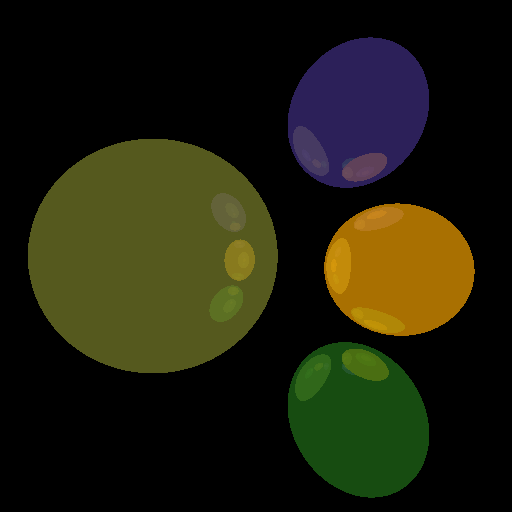
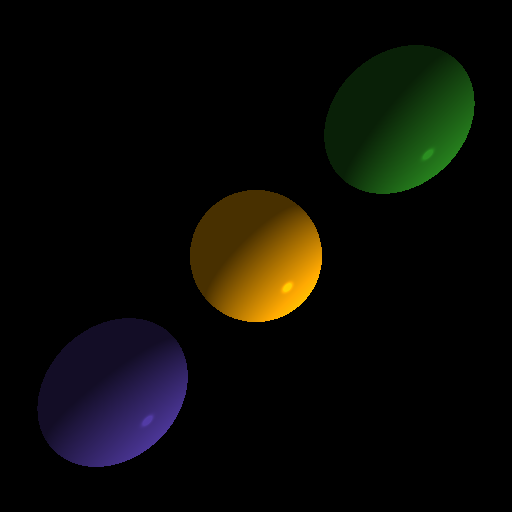
lights

diff --git a/src/rt/theater/lights/parallel_light.cc b/src/rt/theater/lights/parallel_light.cc
@@ -1,5 +1,9 @@
 #include "parallel_light.hh"
 
+#include <cmath>
+
+#include <rt/common/exception.hh>
+
 namespace rt {
 
 const Vector3<>& ParallelLight::color() const noexcept {
@@ -16,8 +20,20 @@ ParallelLight& ParallelLight::SetColor(const Vector3<>& value) noexcept {
 }
 
 ParallelLight& ParallelLight::SetDirection(const Vector3<>& value) noexcept {
-  direction_ = value;
+  direction_ = value.Unit();
   return *this;
+}
+
+Vector3<> ParallelLight::Illuminate(const Ray& ray,
+                                    const Intersection& intersection) const {
+  auto& phong = intersection.material->phong();
+  auto L = -direction_;
+  auto V = -ray.direction;
+  auto LN = L.Dot(intersection.normal);
+  auto R = 2 * LN * intersection.normal - L;
+  auto d = std::clamp(phong.kd * LN, 0.0, 1.0);
+  auto s = phong.ks * std::pow(std::clamp(R.Dot(V), 0.0, 1.0), phong.exp);
+  return ((d + s) * color_).Clamp(0.0, 1.0);
 }
 
 std::string ParallelLight::ToString() const {

diff --git a/src/rt/theater/lights/point_light.cc b/src/rt/theater/lights/point_light.cc
@@ -1,5 +1,7 @@
 #include "point_light.hh"
 
+#include <rt/common/exception.hh>
+
 namespace rt {
 
 const Vector3<>& PointLight::color() const noexcept {
@@ -18,6 +20,11 @@ PointLight& PointLight::SetColor(const Vector3<>& value) noexcept {
 PointLight& PointLight::SetPosition(const Vector3<>& value) noexcept {
   position_ = value;
   return *this;
+}
+
+Vector3<> PointLight::Illuminate(const Ray& ray,
+                                 const Intersection& intersection) const {
+  throw RuntimeError{"not implemented"};
 }
 
 std::string PointLight::ToString() const {

diff --git a/src/rt/renderer/renderer.cc b/src/rt/renderer/renderer.cc
@@ -46,10 +46,11 @@ Vector3<> Renderer::ProcessRay(const Ray& ray, std::size_t bounces) {
   if (!surface) {
     return scene_->background();
   }
-  auto ref = ray.direction - 2 * ray.direction.Dot(inter.normal) * inter.normal;
-  auto c0 = ProcessRay({inter.point, ref}, bounces - 1);
-  auto c1 = surface->material()->GetColor();
-  return 0.3 * c0 + 0.7 * c1;
+  Vector3<> color{};
+  for (auto& light : scene_->lights()) {
+    color += light->Illuminate(ray, inter);
+  }
+  return color.Hadamard(surface->material()->GetColor());
 }
 
 }  // namespace rt

diff --git a/src/rt/theater/lights/spot_light.cc b/src/rt/theater/lights/spot_light.cc
@@ -1,5 +1,7 @@
 #include "spot_light.hh"
 
+#include <rt/common/exception.hh>
+
 namespace rt {
 
 const Vector3<>& SpotLight::color() const noexcept {
@@ -41,6 +43,11 @@ SpotLight& SpotLight::SetFallof(const Angle<>& a1, const Angle<>& a2) noexcept {
   falloff_a1_ = a1;
   falloff_a2_ = a2;
   return *this;
+}
+
+Vector3<> SpotLight::Illuminate(const Ray& ray,
+                                const Intersection& intersection) const {
+  throw RuntimeError{"not implemented"};
 }
 
 std::string SpotLight::ToString() const {

diff --git a/src/rt/theater/lights/ambient_light.cc b/src/rt/theater/lights/ambient_light.cc
@@ -13,6 +13,11 @@ AmbientLight& AmbientLight::SetColor(const Vector3<>& value) noexcept {
   return *this;
 }
 
+Vector3<> AmbientLight::Illuminate(const Ray& ray,
+                                   const Intersection& intersection) const {
+  return intersection.material->phong().ka * color_;
+}
+
 std::string AmbientLight::ToString() const {
   std::string str = "AmbientLight\n";
   str += std::format("  color = {}\n", color_.ToString());

diff --git a/src/rt/theater/surfaces/sphere.cc b/src/rt/theater/surfaces/sphere.cc
@@ -35,6 +35,7 @@ std::optional<Intersection> Sphere::Hit(const Ray& ray) const {
   auto t0 = (-b - sd) / (2 * a);
   auto t1 = (-b + sd) / (2 * a);
   Intersection inter{};
+  inter.material = material_.get();
   inter.distance = std::min(t0, t1);
   inter.point = ray.At(inter.distance);
   inter.normal = (inter.point - position_).Unit();
